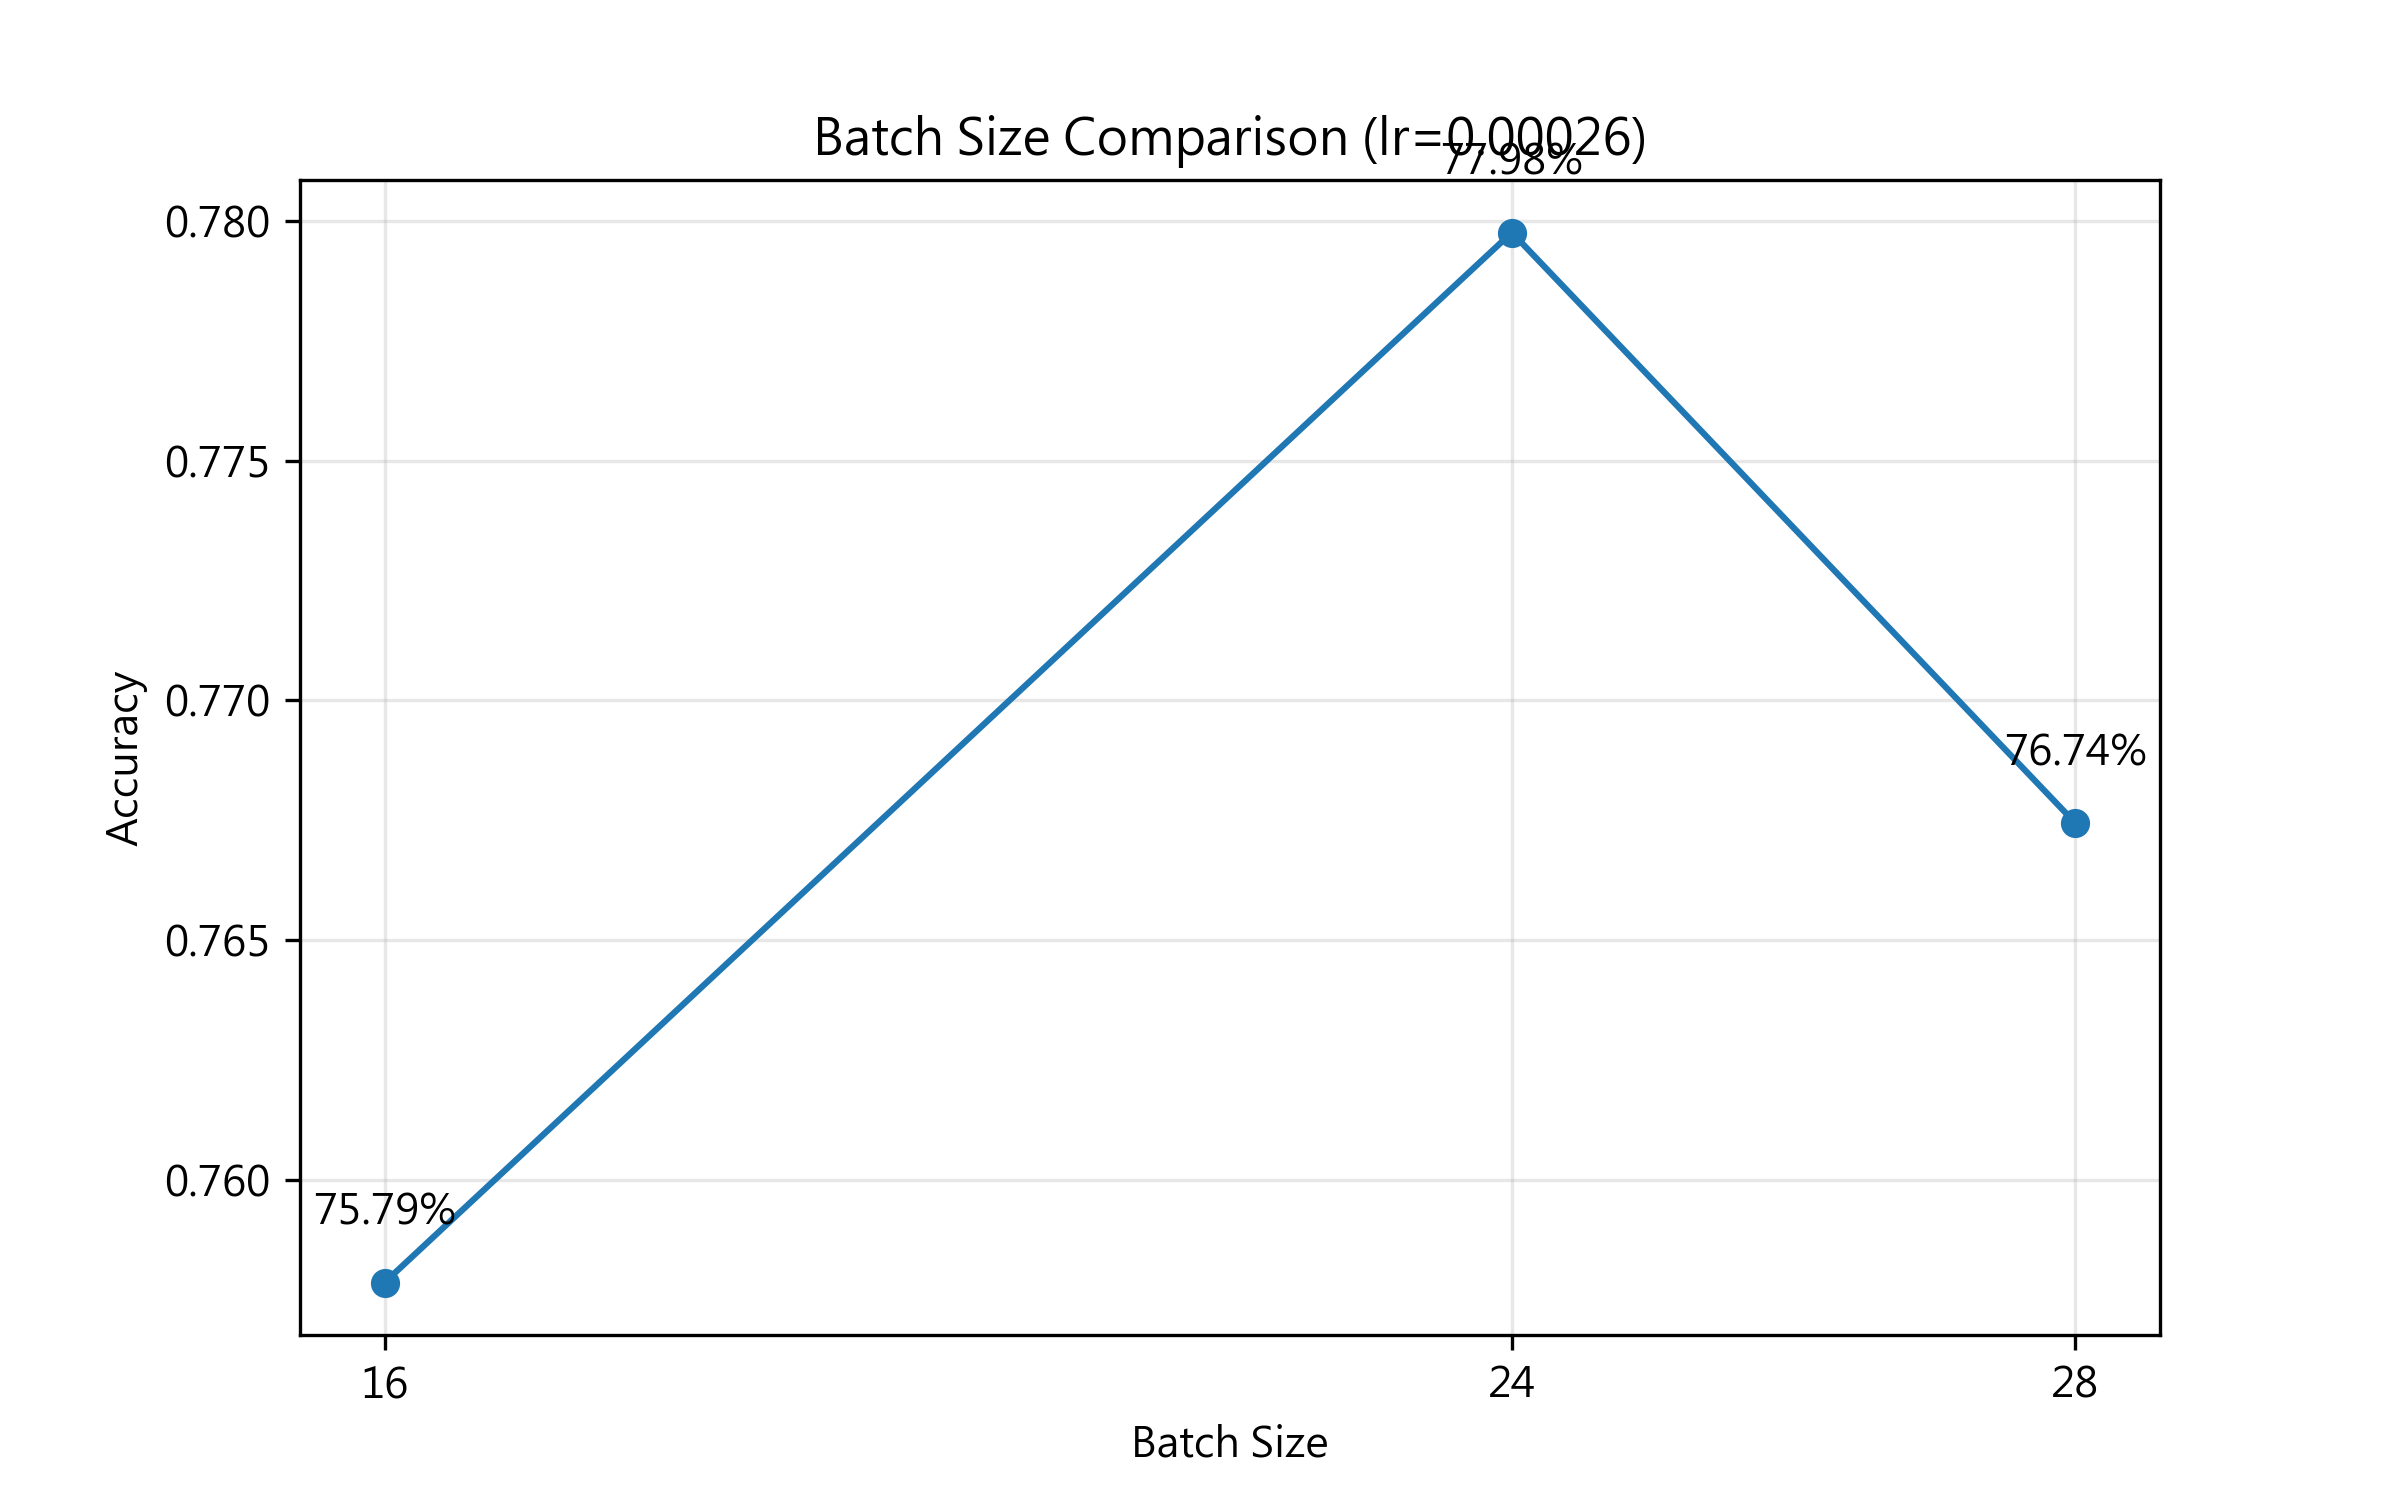
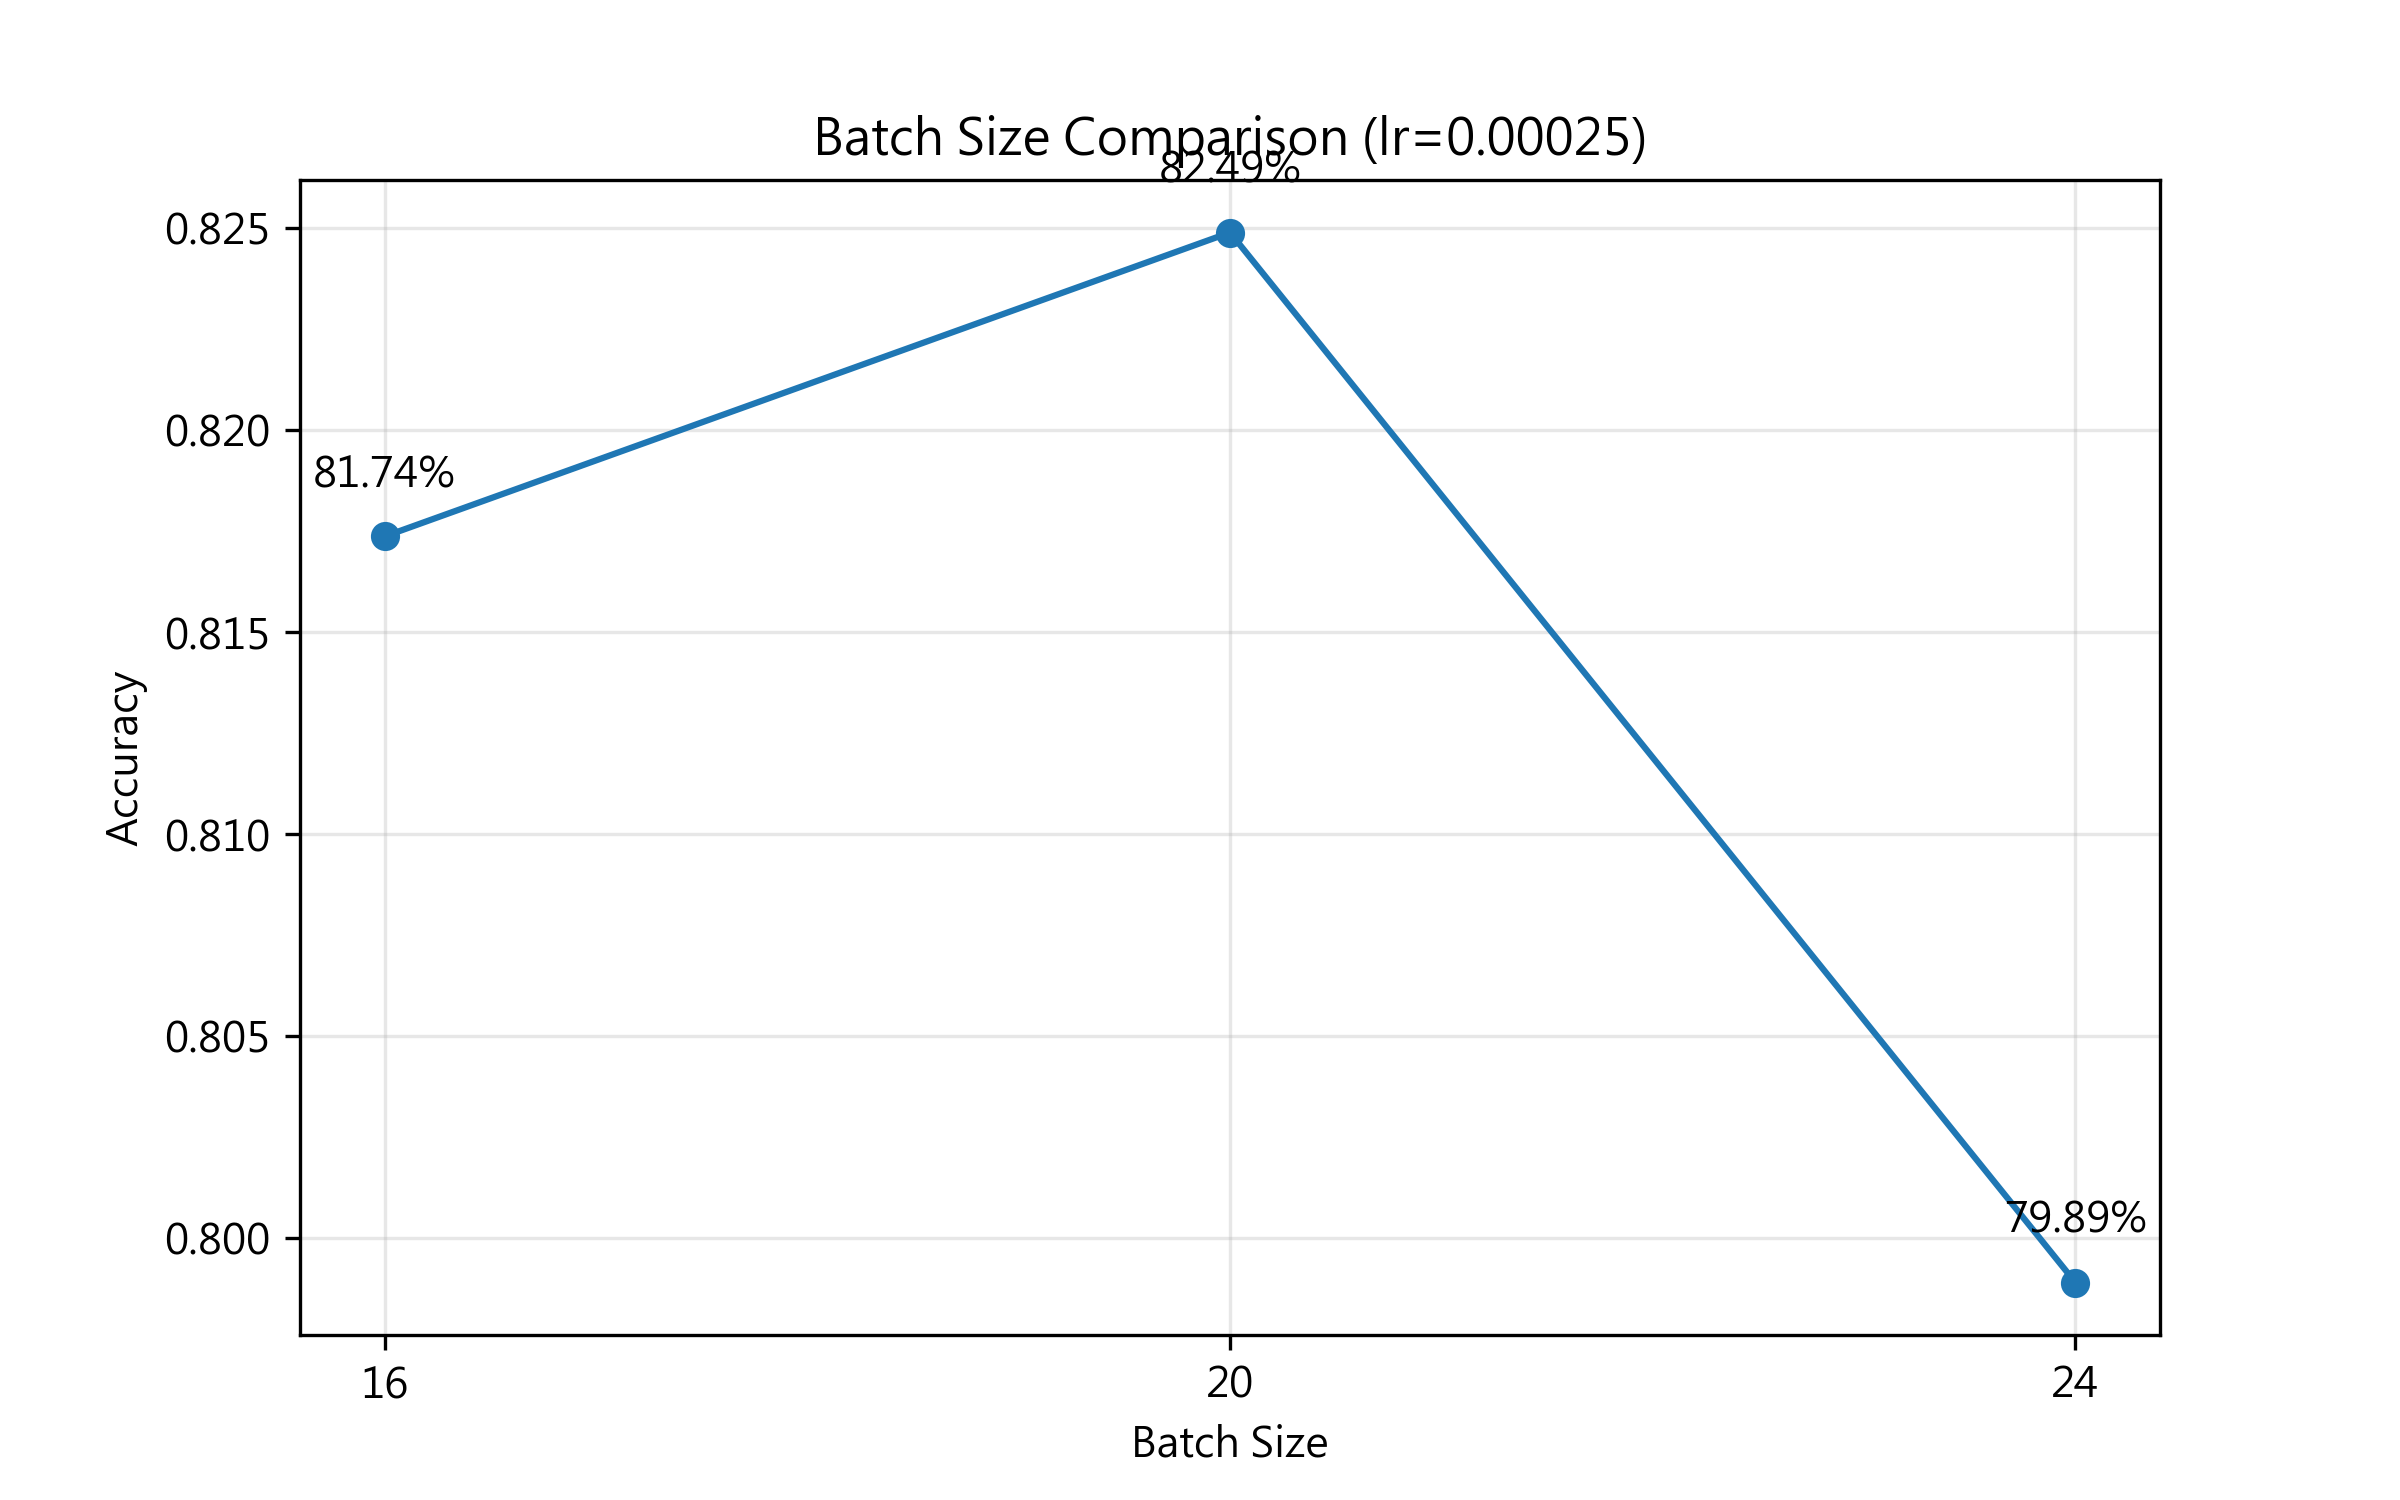
feat: 82.49% keras pytorch 目前測得最佳參數，集成學習 84%  - lr=0.00025, bs=20

diff --git a/src/final_exam/09_winpytorch_ensemble_prediction.py b/src/final_exam/09_winpytorch_ensemble_prediction.py
@@ -1,0 +1,151 @@
+import os
+os.environ["KERAS_BACKEND"] = "torch"
+
+import numpy as np
+import pickle
+import keras
+import matplotlib.pyplot as plt
+import seaborn as sns
+from sklearn.linear_model import LogisticRegression
+from sklearn.metrics import accuracy_score, confusion_matrix
+from sklearn.model_selection import train_test_split
+from utils.cross_platform_config import set_matplotlib_font
+
+# 設定字體
+font_name = set_matplotlib_font()
+plt.rcParams["font.sans-serif"] = [font_name]
+plt.rcParams["axes.unicode_minus"] = False
+
+def main():
+    print("=" * 70)
+    print("進階集成優化: 精細權重搜索 & Stacking")
+    print("=" * 70)
+
+    # ==================== 1. 準備資料與模型 ====================
+    print("步驟 1: 載入模型與資料...")
+    
+    # 載入傳統模型資料
+    with open("output/models/traditional_models.pkl", "rb") as f:
+        trad_data = pickle.load(f)
+    
+    X_test_sparse = trad_data["X_test"]
+    y_test = trad_data["y_test"]
+    le = trad_data["label_encoder"]
+    rf_model = trad_data["models"]["Random Forest"]
+    
+    # 載入 Keras 模型
+    keras_model = keras.models.load_model("output/models/best_keras_model.keras")
+    X_test_dense = X_test_sparse.toarray().astype('float32')
+
+    # ==================== 2. 取得基礎預測機率 ====================
+    print("\n步驟 2: 計算基礎模型機率...")
+    
+    # Random Forest Probabilities
+    probs_rf = rf_model.predict_proba(X_test_sparse)
+    
+    # Keras Probabilities
+    probs_keras = keras_model.predict(X_test_dense, verbose=0)
+    
+    # 基礎準確率
+    acc_rf = accuracy_score(y_test, rf_model.predict(X_test_sparse))
+    acc_keras = accuracy_score(y_test, np.argmax(probs_keras, axis=1))
+    
+    print(f" -> Random Forest 基柏準確率: {acc_rf:.2%}")
+    print(f" -> Keras Neural Net 基準準確率: {acc_keras:.2%}")
+
+    # ==================== 3. 策略三: 精細權重搜索 ====================
+    print("\n" + "=" * 70)
+    print("策略三: 精細化權重搜索 (Fine-grained Weight Search)")
+    print("=" * 70)
+    
+    best_weight_acc = 0
+    best_w_rf = 0
+    history_weights = []
+    history_accs = []
+
+    # 從 0.00 到 1.00，每次增加 0.01
+    for w_rf in np.arange(0.0, 1.01, 0.0001):
+        w_keras = 1.0 - w_rf
+        
+        # 加權平均
+        weighted_probs = (probs_rf * w_rf) + (probs_keras * w_keras)
+        pred_label = np.argmax(weighted_probs, axis=1)
+        
+        acc = accuracy_score(y_test, pred_label)
+        
+        history_weights.append(w_rf)
+        history_accs.append(acc)
+        
+        if acc > best_weight_acc:
+            best_weight_acc = acc
+            best_w_rf = w_rf
+
+    print(f"搜索完成！")
+    print(f"最佳權重配置: Random Forest = {best_w_rf:.2f}, Keras = {1-best_w_rf:.2f}")
+    print(f"最佳集成準確率: {best_weight_acc:.2%}")
+    print(f"相比 Keras 提升: +{best_weight_acc - acc_keras:.2%}")
+
+    # 繪製權重變化圖
+    plt.figure(figsize=(10, 6))
+    plt.plot(history_weights, history_accs, label='Ensemble Accuracy', color='purple', linewidth=2)
+    plt.axvline(x=best_w_rf, color='r', linestyle='--', label=f'Best Weight (RF={best_w_rf:.2f})')
+    plt.axhline(y=acc_keras, color='g', linestyle=':', label='Keras Baseline')
+    plt.axhline(y=acc_rf, color='b', linestyle=':', label='RF Baseline')
+    
+    plt.title(f"集成權重優化曲線\nMax Accuracy: {best_weight_acc:.2%}", fontsize=14)
+    plt.xlabel("Random Forest 權重佔比 (0.0 ~ 1.0)", fontsize=12)
+    plt.ylabel("測試集準確率", fontsize=12)
+    plt.legend()
+    plt.grid(True, alpha=0.3)
+    plt.savefig("output/result_images/ensemble_weight_search.png", dpi=300)
+    print("權重分析圖已儲存至 output/result_images/ensemble_weight_search.png")
+
+    # ==================== 4. 策略二: Stacking (堆疊法) ====================
+    print("\n" + "=" * 70)
+    print("策略二: Stacking (使用 Logistic Regression 作為元模型)")
+    print("=" * 70)
+    print("注意：為了不作弊，我們將測試集切分 50% 訓練 Meta-Model，50% 驗證")
+
+    # 準備 Meta-Features (將兩個模型的機率拼起來)
+    # Shape: (n_samples, n_classes * 2)
+    X_meta = np.hstack([probs_rf, probs_keras])
+    
+    # 切分 Meta 資料集
+    X_meta_train, X_meta_test, y_meta_train, y_meta_test = train_test_split(
+        X_meta, y_test, test_size=0.5, random_state=42, stratify=y_test
+    )
+    
+    # 訓練 Meta-Model
+    meta_model = LogisticRegression(max_iter=1000)
+    meta_model.fit(X_meta_train, y_meta_train)
+    
+    # 預測
+    stacking_pred = meta_model.predict(X_meta_test)
+    stacking_acc = accuracy_score(y_meta_test, stacking_pred)
+    
+    print(f"Stacking (Meta-Model) 準確率: {stacking_acc:.2%}")
+    print("(註：由於測試樣本減半，Stacking 的分數波動可能會較大)")
+
+    # ==================== 5. 最終最佳預測與混淆矩陣 ====================
+    print("\n" + "=" * 70)
+    print("生成最終最佳混淆矩陣")
+    print("=" * 70)
+    
+    # 使用最佳權重重新產生預測
+    final_probs = (probs_rf * best_w_rf) + (probs_keras * (1-best_w_rf))
+    final_preds = np.argmax(final_probs, axis=1)
+    
+    plt.figure(figsize=(12, 10))
+    cm = confusion_matrix(y_test, final_preds)
+    sns.heatmap(cm, annot=True, fmt='d', cmap='Purples', 
+                xticklabels=le.classes_, yticklabels=le.classes_)
+    plt.title(f"Optimized Ensemble Matrix (RF={best_w_rf:.2f}, Keras={1-best_w_rf:.2f})\nAccuracy: {best_weight_acc:.2%}")
+    plt.xlabel("Predicted")
+    plt.ylabel("Actual")
+    plt.xticks(rotation=45, ha="right")
+    plt.tight_layout()
+    plt.savefig("output/result_images/final_optimized_ensemble_matrix.png", dpi=300)
+    print("最佳混淆矩陣已儲存至 output/result_images/final_optimized_ensemble_matrix.png")
+
+if __name__ == "__main__":
+    main()

diff --git a/src/final_exam/08_train_neural_network.py b/src/final_exam/08_train_neural_network.py
@@ -8,7 +8,7 @@ import time
 from sklearn.model_selection import train_test_split
 from sklearn.metrics import accuracy_score, confusion_matrix, classification_report
 
-from tensorflow.keras import Model, Input, regularizers
+from tensorflow.keras import Model, Input
 from tensorflow.keras.layers import Dense, Dropout, BatchNormalization, Activation
 from tensorflow.keras.utils import to_categorical
 from tensorflow.keras.callbacks import EarlyStopping, ReduceLROnPlateau
@@ -40,31 +40,31 @@ def build_keras_model(input_dim, num_classes, learning_rate=0.0003):
     inputs = Input(shape=(input_dim,), sparse=True, name="input_features")
 
     # # 第一層: 1024 neurons
-    # x = Dense(1024, name="dense_1024")(inputs)
-    # x = BatchNormalization(name="batchnorm_0")(x)
-    # x = Activation("relu", name="activation_0")(x)
-    # x = Dropout(0.45, name="dropout_0")(x)
+    x = Dense(1024, name="dense_1024")(inputs)
+    x = BatchNormalization(name="batchnorm_0")(x)
+    x = Activation("relu", name="activation_0")(x)
+    x = Dropout(0.45, name="dropout_0")(x)
 
     # 第二層: 512 neurons
-    x = Dense(512, name="dense_512", kernel_regularizer=regularizers.l2(0.001))(inputs)
+    x = Dense(512, name="dense_512",)(x)
     x = BatchNormalization(name="batchnorm_1")(x)
     x = Activation("relu", name="activation_1")(x)
     x = Dropout(0.45, name="dropout_1")(x)
 
     # 第三層: 256 neurons
-    x = Dense(256, name="dense_256", kernel_regularizer=regularizers.l2(0.001))(x)
+    x = Dense(256, name="dense_256",)(x)
     x = BatchNormalization(name="batchnorm_2")(x)
     x = Activation("relu", name="activation_2")(x)
     x = Dropout(0.4, name="dropout_2")(x)
 
     # 第四層: 128 neurons
-    x = Dense(128, name="dense_128", kernel_regularizer=regularizers.l2(0.001))(x)
+    x = Dense(128, name="dense_128")(x)
     x = BatchNormalization(name="batchnorm_3")(x)
     x = Activation("relu", name="activation_3")(x)
     x = Dropout(0.4, name="dropout_3")(x)
 
     # 第五層: 64 neurons
-    x = Dense(64, name="dense_64", kernel_regularizer=regularizers.l2(0.001))(x)
+    x = Dense(64, name="dense_64")(x)
     x = BatchNormalization(name="batchnorm_4")(x)
     x = Activation("relu", name="activation_4")(x)
     x = Dropout(0.3, name="dropout_4")(x)
@@ -128,7 +128,7 @@ def main():
     print("=" * 70)
 
     learning_rates = [0.00026, 0.00028, 0.0003]
-    batch_sizes = [16, 20, 24, 28]
+    batch_sizes = [16, 24, 28]
 
     keras_histories = {}
     keras_accuracies = {}

diff --git a/src/final_exam/08_winpytorch_train_neural_network.py b/src/final_exam/08_winpytorch_train_neural_network.py
@@ -47,8 +47,14 @@ def build_keras_model(input_dim, num_classes, learning_rate):
     """
     inputs = Input(shape=(input_dim,), name="input_features")
 
+    # 第一層: 1024 neurons
+    x = Dense(1024, name="dense_1024")(inputs)
+    x = BatchNormalization(name="batchnorm_0")(x)
+    x = Activation("relu", name="activation_0")(x)
+    x = Dropout(0.45, name="dropout_0")(x)
+
     # 第一層: 512 neurons
-    x = Dense(512, name="dense_512")(inputs)
+    x = Dense(512, name="dense_512")(x)
     x = BatchNormalization(name="batchnorm_1")(x)
     x = Activation("relu", name="activation_1")(x)
     x = Dropout(0.45, name="dropout_1")(x)
@@ -127,11 +133,12 @@ def main():
 
     # ==================== 2. Grid Search ====================
     print("\n" + "=" * 70)
-    print("步驟 2: Grid Search (L2 Regularized)")
+    print("步驟 2: Keras Grid Search (learning_rate × batch_size)")
     print("=" * 70)
 
-    learning_rates = [0.00026, 0.00028, 0.0003]
-    batch_sizes = [16, 24, 28]
+    ## 目前測得最強單一模型 (lr=0.00025, bs=20)
+    learning_rates = [0.00025, 0.00026, 0.00027]
+    batch_sizes = [16, 20, 24]
 
     keras_histories = {}
     keras_accuracies = {}
